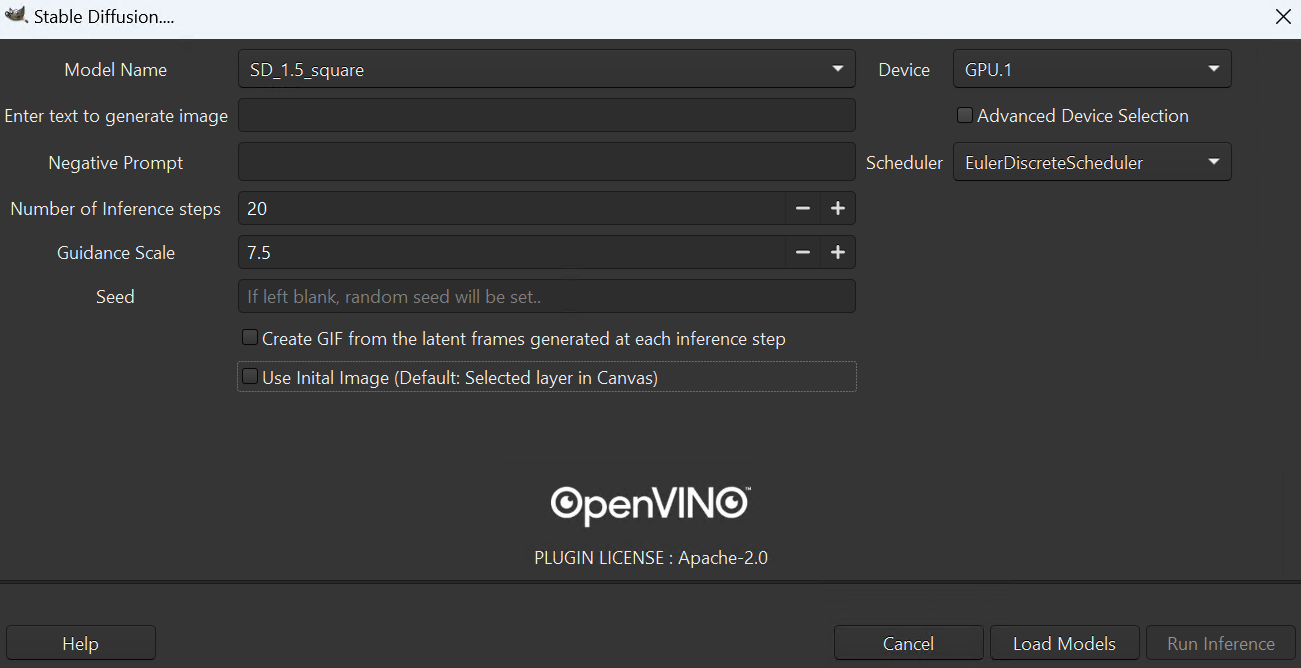
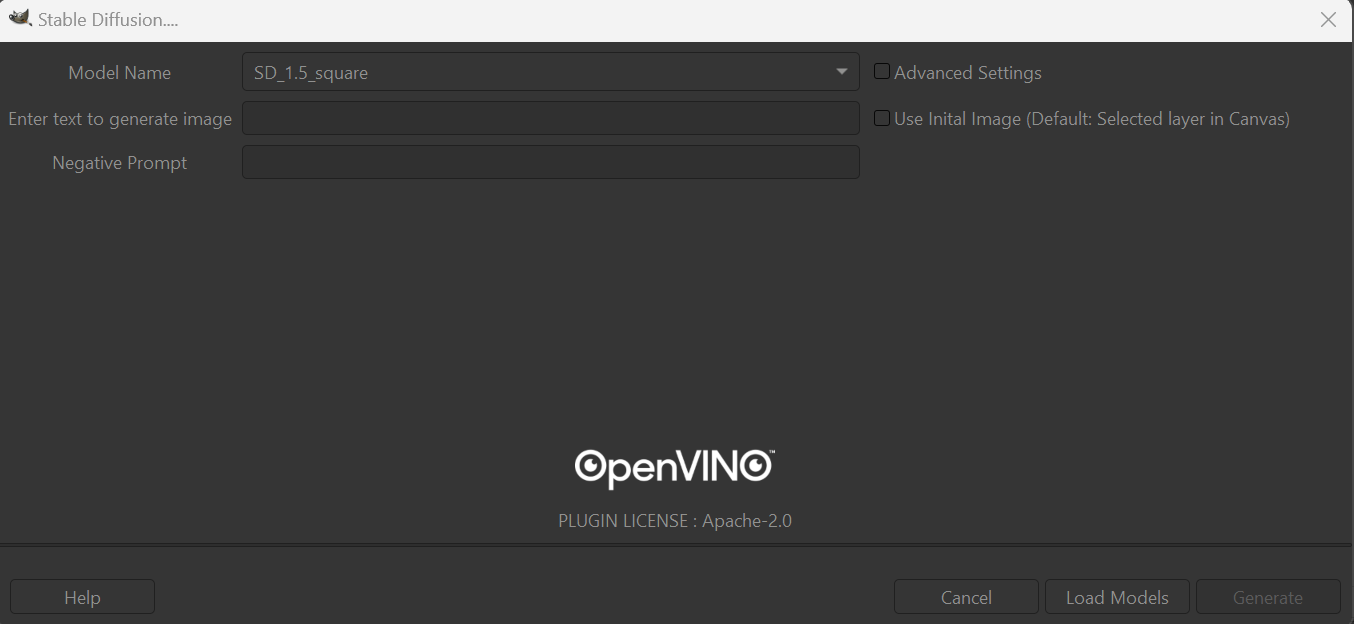
Updated readme screenshort

diff --git a/README.md b/README.md
@@ -86,8 +86,15 @@ For detailed steps and tips please refer to [Linux Installation Guide](./Docs/li
 5. Follow steps 4,5 from section A.
 6. Click on “Generate”. Wait for the total inference steps to get completed.
 
-_Note that the screenshots below are based on the previous UI_
+
 ![](gifs/stable-diffusion.png)
+
+_With Advanced Setting_
+
+![](gifs/stable-diffusion1.png)
+
+
+_Note that the screenshots below are based on the previous UI_
 ![](gifs/stable-diffusion.webp)
 
 
